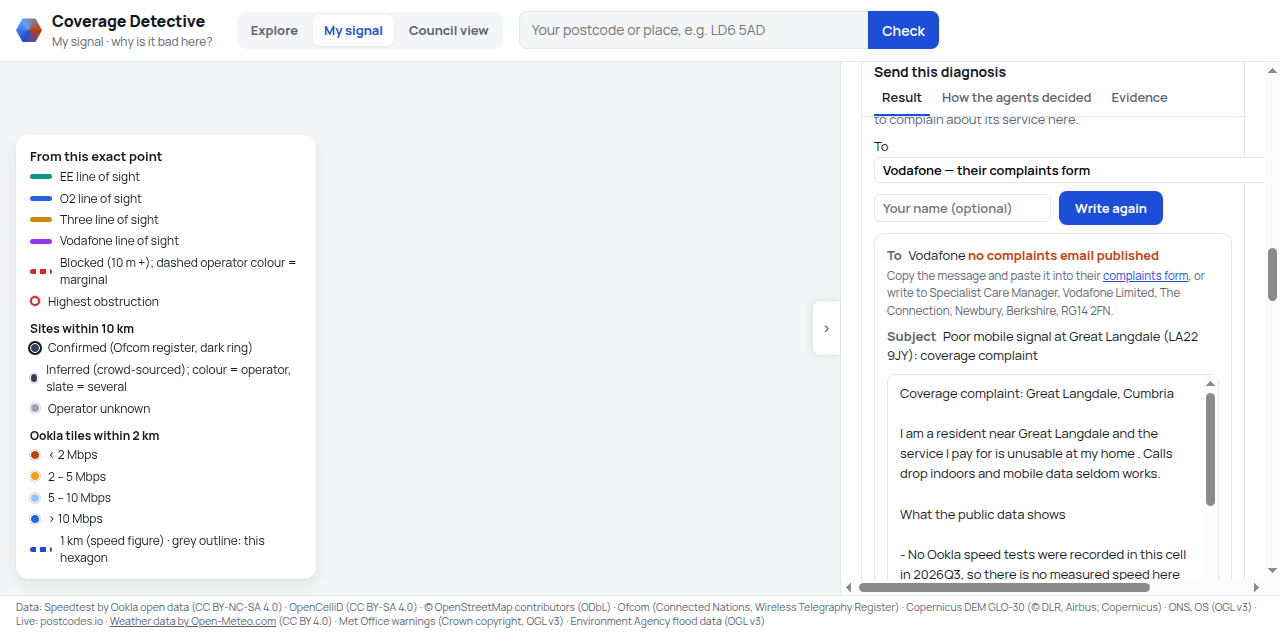
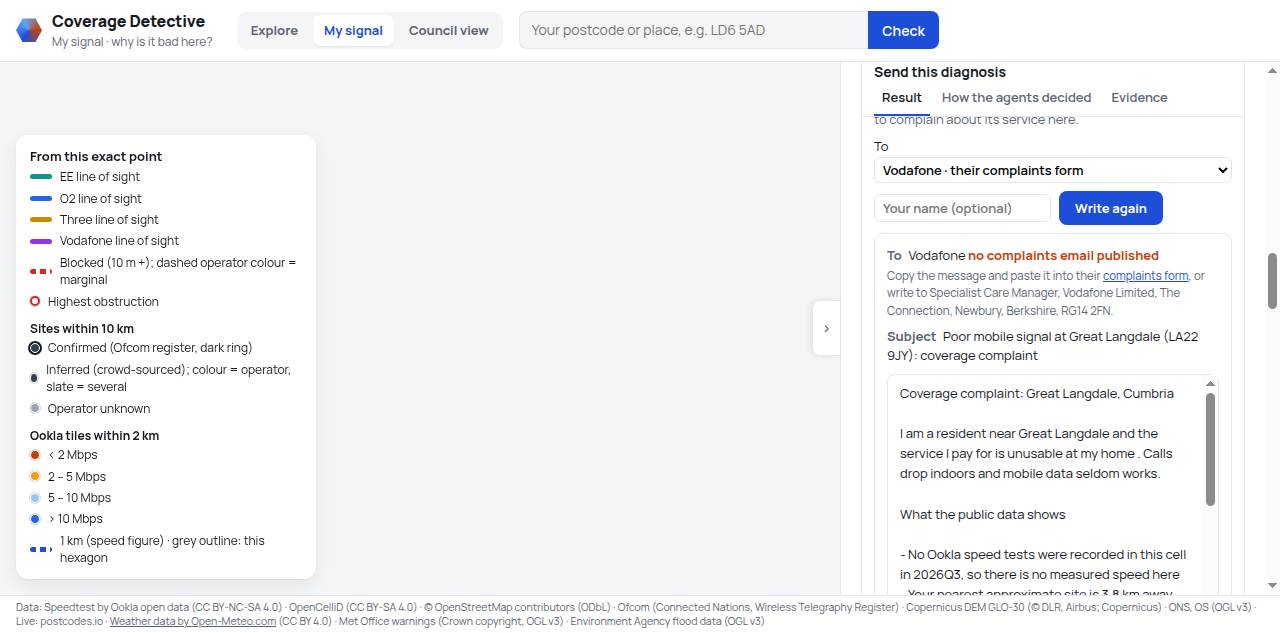
web: keep the recipient chooser inside the panel
A long option label stretched the select past the panel and gave the whole column a
horizontal scrollbar. The label now takes the row and the select follows its width.

Changed region(s): [[0.6562, 0.9005, 0.9062, 0.9605], [0.75, 0.2401, 0.8438, 0.3002]]

diff --git a/web/style.css b/web/style.css
@@ -504,7 +504,7 @@ svg.wm { width: 100%; height: auto; max-height: 340px; background: #fff; border:
 .net-rank, .actions { margin: 0; padding-left: var(--s4); }
 .net-rank li, .actions li { margin-bottom: var(--s1); }
 .conf-word { font-size: var(--fs-s); color: var(--muted); }
-.letter-controls { display: flex; gap: var(--s2); align-items: center; flex-wrap: wrap; font-size: var(--fs-s); margin: var(--s2) 0; }
+.letter-controls { display: flex; gap: var(--s2); align-items: center; flex-wrap: wrap; font-size: var(--fs-s); margin: var(--s2) 0; min-width: 0; }
 .letter-text { width: 100%; font: var(--fs-s)/1.5 var(--mono); padding: var(--s2); border: 1px solid var(--line); border-radius: 8px; resize: vertical; background: #fff; }
 .email-card { border: 1px solid var(--line); border-radius: 10px; padding: var(--s3); margin: var(--s2) 0 var(--s3); background: #fff; }
 .email-head { font-size: var(--fs-s); margin: 0 0 var(--s2); word-break: break-word; }
@@ -513,6 +513,8 @@ svg.wm { width: 100%; height: auto; max-height: 340px; background: #fff; border:
 .email-head strong { color: var(--muted); margin-right: var(--s1); }
 .email-head a { color: var(--accent); }
 .letter-controls input#email-name { font: 600 var(--fs-s) var(--sans); padding: 4px var(--s2); border: 1px solid var(--line); border-radius: 6px; max-width: 190px; }
+.letter-controls > label:has(#email-to) { flex: 1 1 100%; min-width: 0; max-width: 100%; }
+.letter-controls #email-to { width: 100%; max-width: 100%; min-width: 0; }
 .md { background: #fff; border: 1px solid var(--line); border-radius: 8px; padding: var(--s3) var(--s4); }
 
 /* Council view: zone table */
